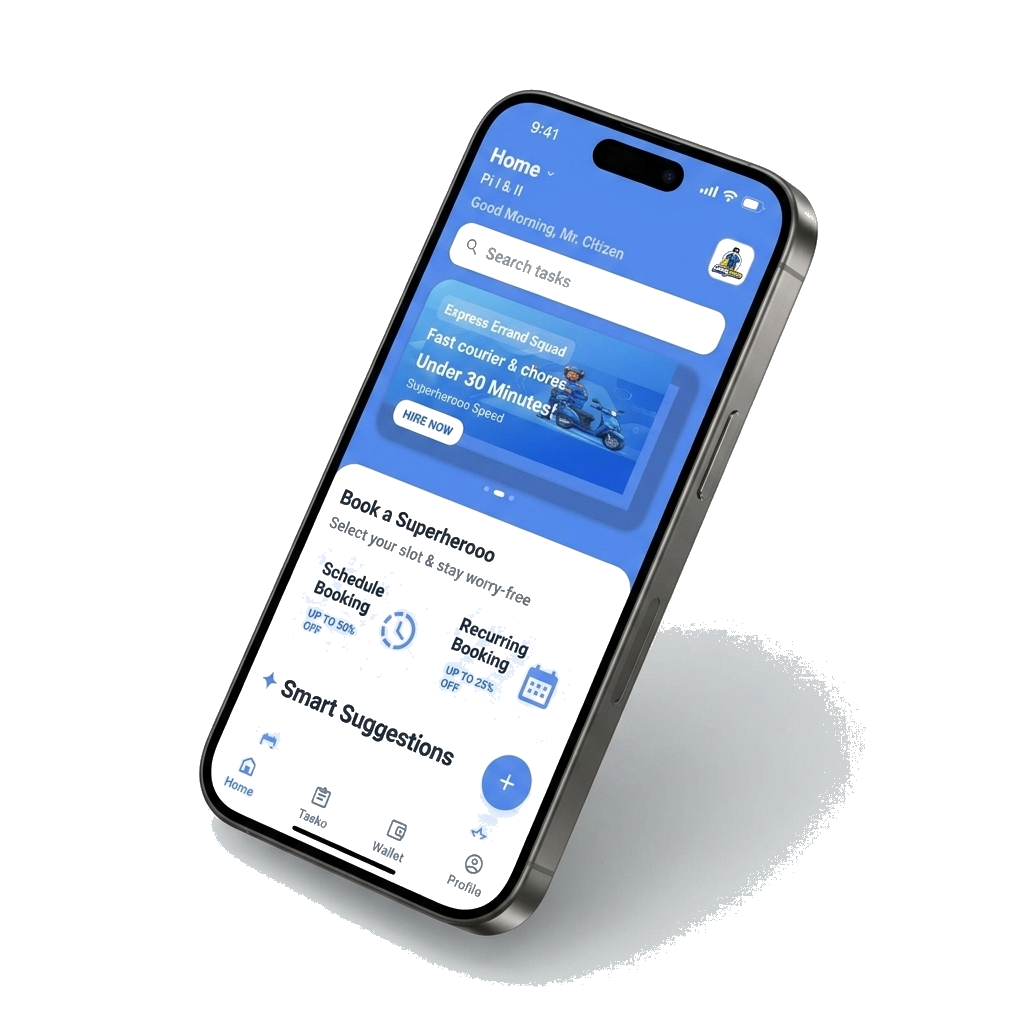
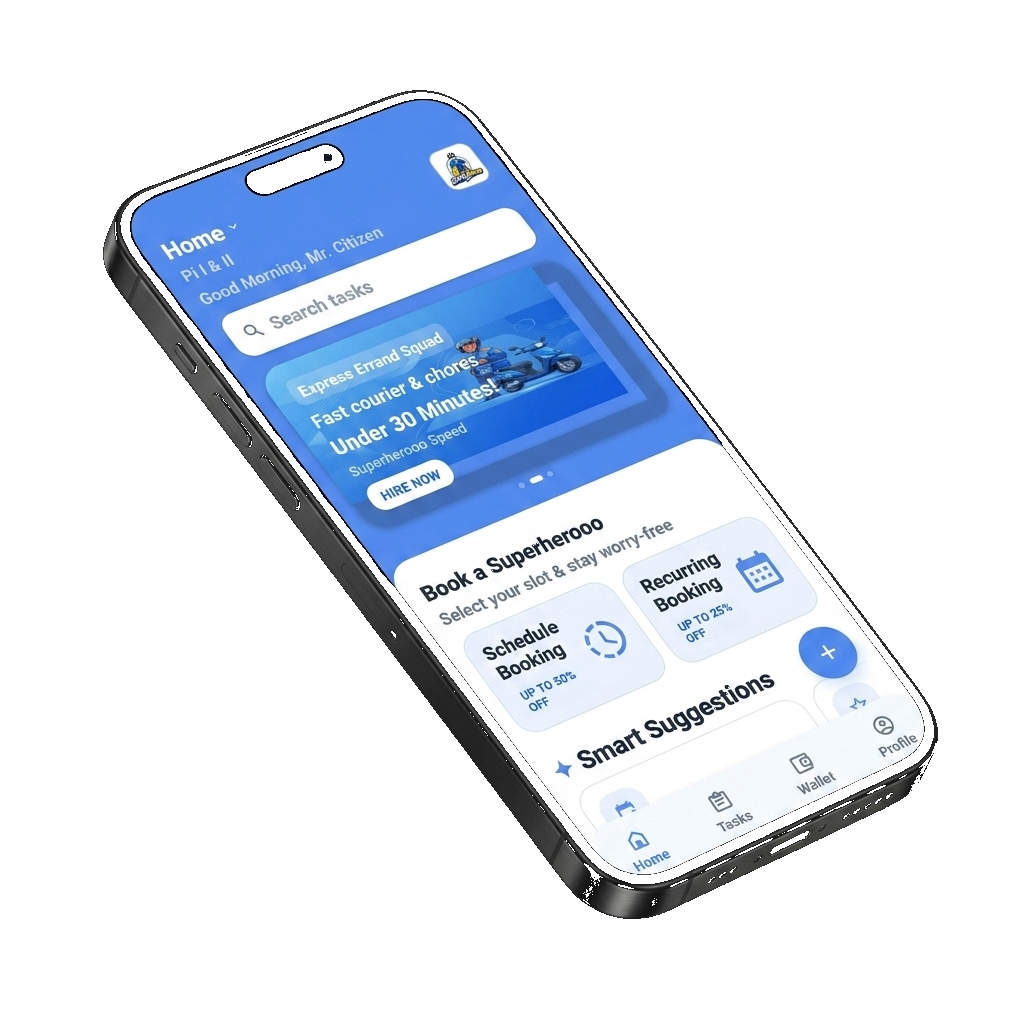
fix: ultra premium iPhone Pro Max mockup, clean transparent bg, no shadow distortion

diff --git a/styles.css b/styles.css
@@ -383,7 +383,7 @@ p { color: var(--text-muted); }
 .cta__btn-text small { display: block; font-size: 0.65rem; }
 .cta__btn-text strong { display: block; font-size: 0.9rem; }
 .cta__img-wrapper { position: relative; height: 100%; display: flex; align-items: flex-end; justify-content: center; overflow: visible; }
-.cta__img { width: 320px; margin-bottom: -60px; position: relative; z-index: 2; filter: drop-shadow(0 20px 40px rgba(0,0,0,0.4)); background: transparent; }
+.cta__img { width: 360px; margin-bottom: -60px; position: relative; z-index: 2; }
 .cta__badge {
   position: absolute; top: 80px; left: 40px; z-index: 3;
   background: var(--amber); padding: 8px 16px; border-radius: 8px;
